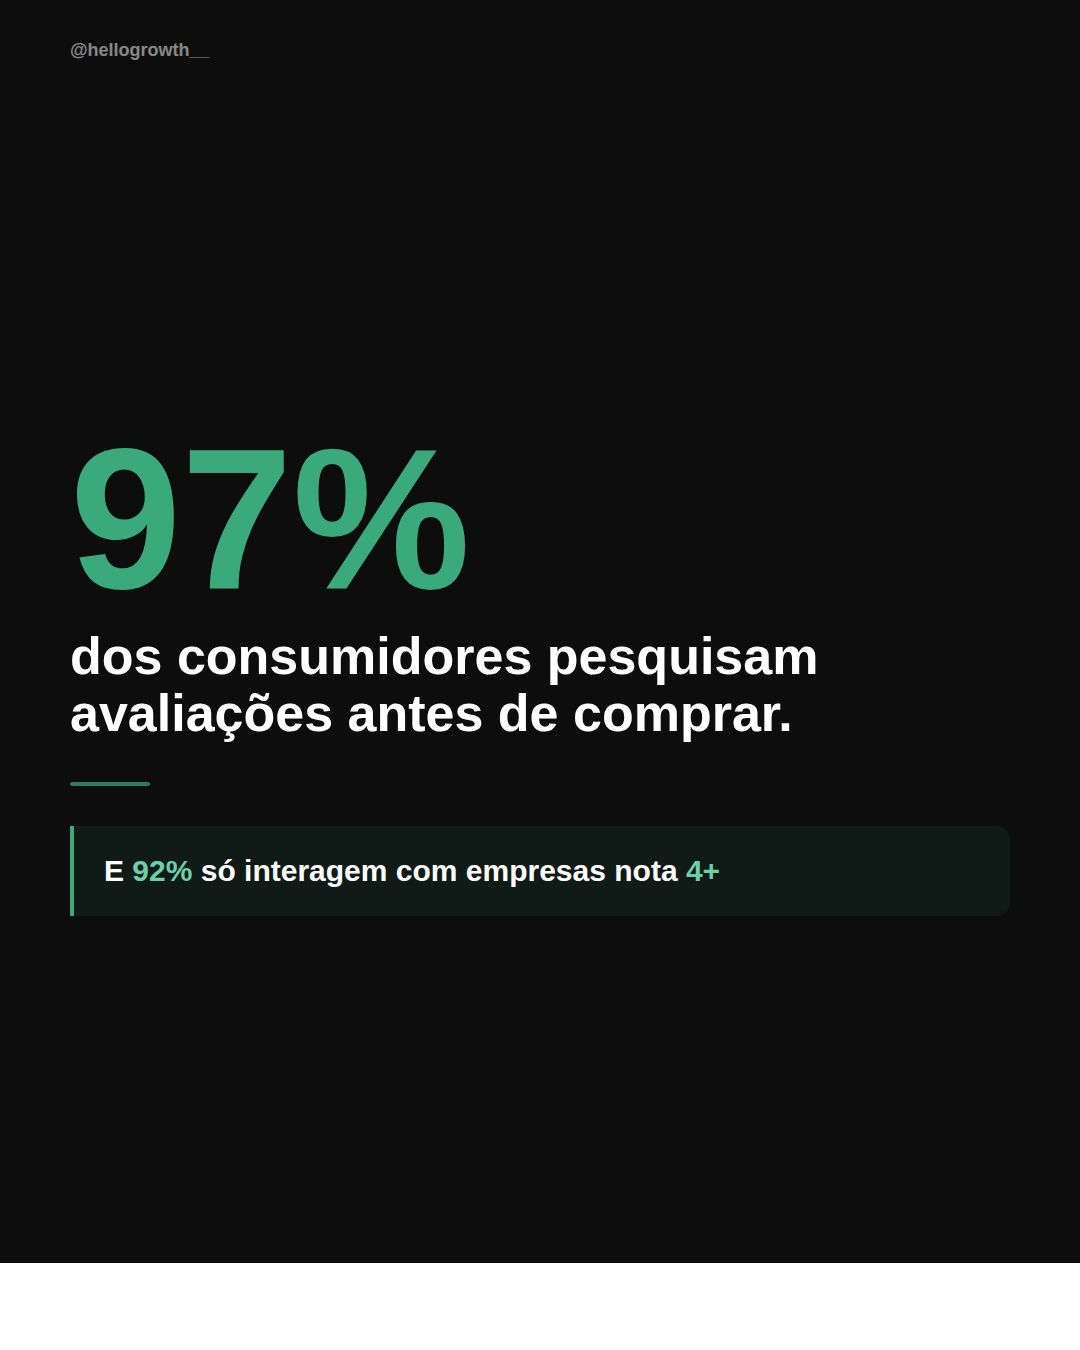
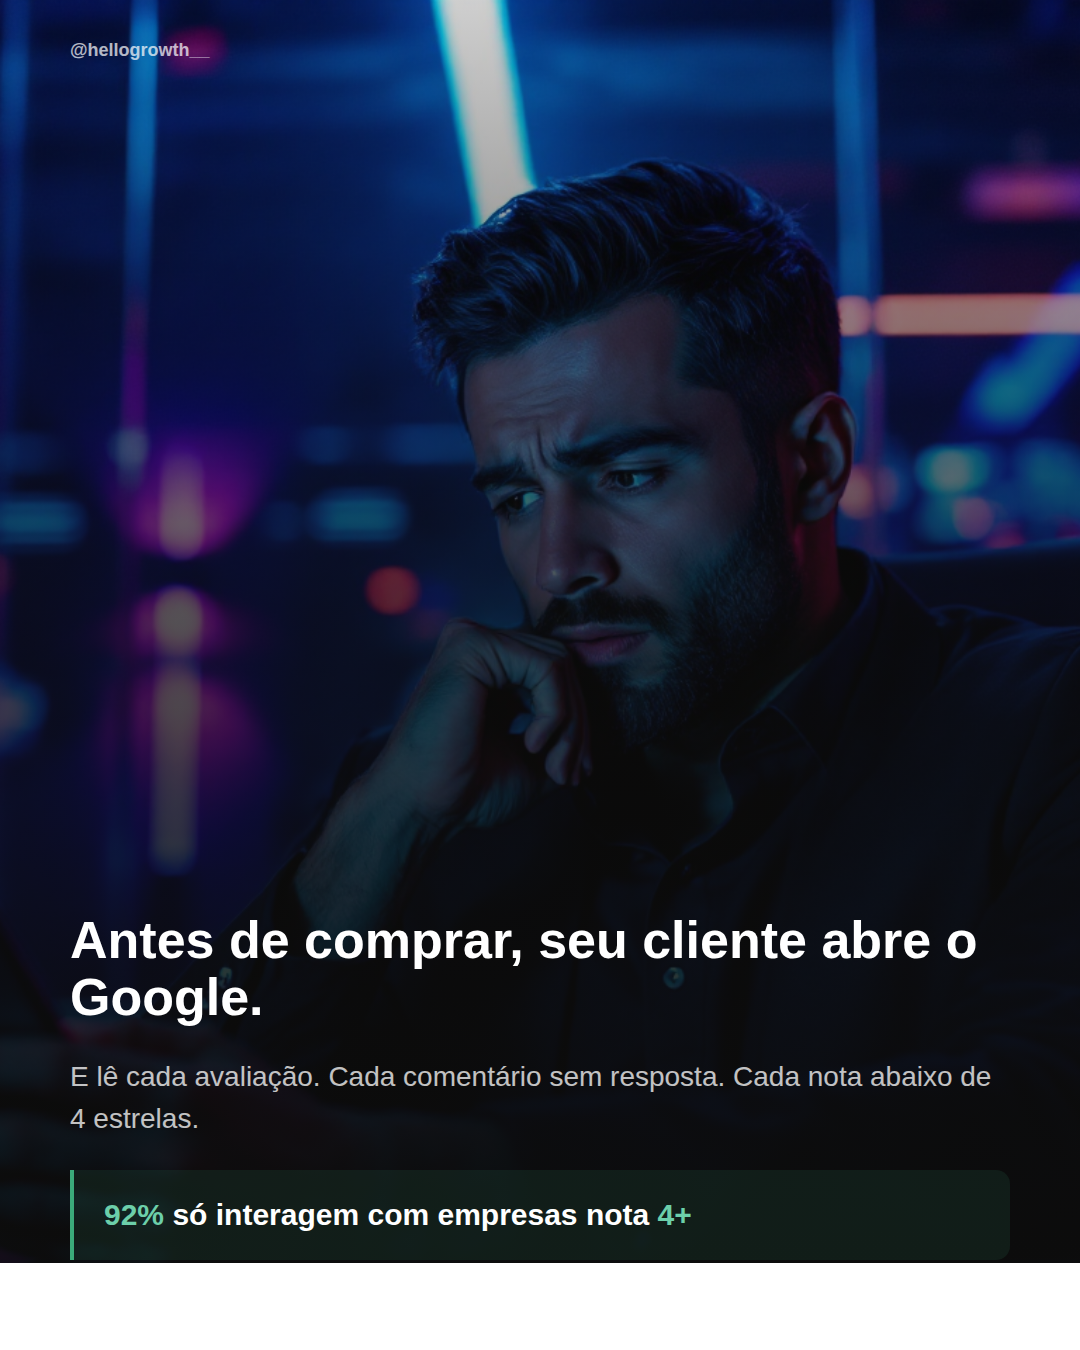
Update carousel: add photos to cards 2 and 4, fix card 2 text
- Card 2: new text + AI photo (person looking at reviews)
- Card 4: AI photo (person walking away in city)
- Cards 1,2,4 have photos; cards 3,5,6,7 text-only

https://claude.ai/code/session_01RXRUyw64HWp6pgoosUTsE4

diff --git a/squads/social-content/output/2026-03-25-023004/v3/slides/card-04.html b/squads/social-content/output/2026-03-25-023004/v3/slides/card-04.html
@@ -6,25 +6,30 @@
 <style>
 * { margin: 0; padding: 0; box-sizing: border-box; }
 body { width: 1080px; height: 1350px; font-family: 'Inter', sans-serif; overflow: hidden; }
-.card { width: 1080px; height: 1350px; padding: 70px; display: flex; flex-direction: column; justify-content: center; background: #0d0d0d; color: #fff; position: relative; }
-.handle { position: absolute; top: 40px; left: 70px; font-size: 18px; font-weight: 700; opacity: 0.5; }
-.label { font-size: 16px; font-weight: 800; text-transform: uppercase; letter-spacing: 4px; color: #2D7D5F; margin-bottom: 24px; }
-.big-number { font-size: 180px; font-weight: 900; line-height: 0.85; color: #3BAA7A; margin-bottom: 16px; }
+.card { width: 1080px; height: 1350px; position: relative; overflow: hidden; }
+.bg-photo { position: absolute; top: 0; left: 0; width: 100%; height: 100%; background: url('gamma-photo-card04.png') center/cover no-repeat; }
+.overlay { position: absolute; top: 0; left: 0; width: 100%; height: 100%; background: linear-gradient(to bottom, rgba(13,13,13,0.25) 0%, rgba(13,13,13,0.75) 45%, rgba(13,13,13,0.96) 100%); }
+.content { position: relative; z-index: 2; width: 100%; height: 100%; padding: 60px 70px; display: flex; flex-direction: column; justify-content: flex-end; color: #fff; }
+.handle { position: absolute; top: 40px; left: 70px; font-size: 18px; font-weight: 700; opacity: 0.7; color: #fff; z-index: 3; }
+.label { font-size: 16px; font-weight: 800; text-transform: uppercase; letter-spacing: 4px; color: #2D7D5F; margin-bottom: 20px; }
+.big-number { font-size: 160px; font-weight: 900; line-height: 0.85; color: #3BAA7A; margin-bottom: 16px; }
 .headline { font-size: 48px; font-weight: 900; line-height: 1.1; margin-bottom: 30px; }
-.body-text { font-size: 28px; font-weight: 400; line-height: 1.5; opacity: 0.7; margin-bottom: 40px; }
-.quote-box { background: rgba(45,125,95,0.1); border-left: 4px solid #3BAA7A; padding: 28px 32px; border-radius: 0 14px 14px 0; }
+.quote-box { background: rgba(45,125,95,0.12); border-left: 4px solid #3BAA7A; padding: 28px 32px; border-radius: 0 14px 14px 0; margin-bottom: 30px; }
 .quote-text { font-size: 28px; font-weight: 600; font-style: italic; color: #A0E8CC; line-height: 1.4; }
 </style>
 </head>
 <body>
 <div class="card">
+  <div class="bg-photo"></div>
+  <div class="overlay"></div>
   <div class="handle">@hellogrowth__</div>
-  <div class="label">A consequência</div>
-  <div class="big-number">40%</div>
-  <div class="headline">já deixaram de seguir marcas por ações negativas.</div>
-  <div class="body-text">Não foram concorrentes. Foi a própria empresa que espantou seus clientes.</div>
-  <div class="quote-box">
-    <div class="quote-text">"O consumidor de 2026 não reclama — ele simplesmente some. E leva o dinheiro."</div>
+  <div class="content">
+    <div class="label">A consequência</div>
+    <div class="big-number">40%</div>
+    <div class="headline">já deixaram de seguir marcas por ações negativas.</div>
+    <div class="quote-box">
+      <div class="quote-text">"O consumidor de 2026 não reclama — ele simplesmente some. E leva o dinheiro."</div>
+    </div>
   </div>
 </div>
 </body>

diff --git a/squads/social-content/output/2026-03-25-023004/v3/slides/card-02.html b/squads/social-content/output/2026-03-25-023004/v3/slides/card-02.html
@@ -6,24 +6,29 @@
 <style>
 * { margin: 0; padding: 0; box-sizing: border-box; }
 body { width: 1080px; height: 1350px; font-family: 'Inter', sans-serif; overflow: hidden; }
-.card { width: 1080px; height: 1350px; padding: 70px; display: flex; flex-direction: column; justify-content: center; background: #0d0d0d; color: #fff; position: relative; }
-.handle { position: absolute; top: 40px; left: 70px; font-size: 18px; font-weight: 700; opacity: 0.5; }
-.big-number { font-size: 200px; font-weight: 900; line-height: 0.85; color: #3BAA7A; margin-bottom: 24px; }
-.headline { font-size: 52px; font-weight: 900; line-height: 1.1; margin-bottom: 40px; }
-.divider { width: 80px; height: 4px; background: #2D7D5F; border-radius: 2px; margin-bottom: 40px; }
-.highlight-box { background: rgba(45,125,95,0.12); border-left: 4px solid #3BAA7A; padding: 24px 30px; border-radius: 0 14px 14px 0; }
+.card { width: 1080px; height: 1350px; position: relative; overflow: hidden; }
+.bg-photo { position: absolute; top: 0; left: 0; width: 100%; height: 100%; background: url('gamma-photo-card02.png') center/cover no-repeat; }
+.overlay { position: absolute; top: 0; left: 0; width: 100%; height: 100%; background: linear-gradient(to bottom, rgba(13,13,13,0.2) 0%, rgba(13,13,13,0.7) 45%, rgba(13,13,13,0.96) 100%); }
+.content { position: relative; z-index: 2; width: 100%; height: 100%; padding: 60px 70px; display: flex; flex-direction: column; justify-content: flex-end; color: #fff; }
+.handle { position: absolute; top: 40px; left: 70px; font-size: 18px; font-weight: 700; opacity: 0.7; color: #fff; z-index: 3; }
+.headline { font-size: 52px; font-weight: 900; line-height: 1.1; margin-bottom: 30px; }
+.accent { color: #6CCFAA; }
+.body-text { font-size: 28px; font-weight: 400; line-height: 1.5; opacity: 0.75; margin-bottom: 30px; }
+.highlight-box { background: rgba(45,125,95,0.15); border-left: 4px solid #3BAA7A; padding: 24px 30px; border-radius: 0 14px 14px 0; margin-bottom: 30px; }
 .highlight-text { font-size: 30px; font-weight: 600; line-height: 1.4; }
-.accent { color: #6CCFAA; font-weight: 900; }
 </style>
 </head>
 <body>
 <div class="card">
+  <div class="bg-photo"></div>
+  <div class="overlay"></div>
   <div class="handle">@hellogrowth__</div>
-  <div class="big-number">97%</div>
-  <div class="headline">dos consumidores pesquisam avaliações antes de comprar.</div>
-  <div class="divider"></div>
-  <div class="highlight-box">
-    <div class="highlight-text">E <span class="accent">92%</span> só interagem com empresas nota <span class="accent">4+</span></div>
+  <div class="content">
+    <div class="headline">Antes de comprar, seu cliente abre o Google.</div>
+    <div class="body-text">E lê cada avaliação. Cada comentário sem resposta. Cada nota abaixo de 4 estrelas.</div>
+    <div class="highlight-box">
+      <div class="highlight-text"><span class="accent">92%</span> só interagem com empresas nota <span class="accent">4+</span></div>
+    </div>
   </div>
 </div>
 </body>
